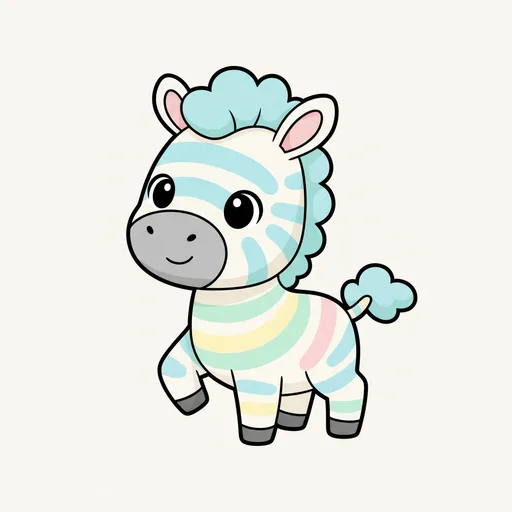
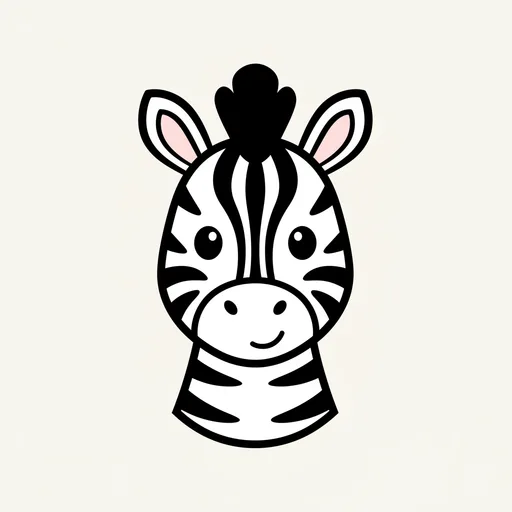
Word Board: add "Find" word-focus mode + zebra B&W image
Find mode (for Adriel): a Board↔Find toggle. In Find, one target word appears
in a random cell; tapping it speaks the word + rotating praise, then it hops to
a new cell so the child tracks & finds it. After 5 finds it advances to a new
word. Toggling back to Board is unchanged. Verified end-to-end (Playwright):
single tile, praise+word play, advances after 5, 0 console errors.

Also: regenerated zebra.webp in proper black & white (was multicolored) via
Vertex; gen-symbols.mjs gains an EXTRA_WORDS hook for non-vocab targets
(safari animals) + a B&W Zebra subject.

Changed region(s): [[0.2188, 0.125, 0.8125, 0.875]]

diff --git a/src/screens/GridScreen.jsx b/src/screens/GridScreen.jsx
@@ -1,23 +1,31 @@
-import { useMemo, useState } from 'react'
+import { useEffect, useMemo, useRef, useState } from 'react'
 import { useStore } from '../store'
-import { voice, voiceSeq, stopSpeaking } from '../lib/audio'
+import { voice, voiceSeq, playChime, stopSpeaking } from '../lib/audio'
 import { WORDS, CATEGORIES, wordsInCategory } from '../data/phraseContent'
+import { PRAISE } from '../data/content'
 import { HomeIcon } from '../components/Icons.jsx'
 import WordPic from '../components/WordPic.jsx'
 import './GridScreen.css'
 
-// Word Board — a therapist-style AAC communication board. It starts BLANK; tapping
-// an empty cell reveals a random word from the chosen category (or any, on "All"),
-// speaks it, and adds it to the message strip. Tapping a filled cell repeats it.
-// CLEAR empties the message AND blanks the whole board. Picture symbols come from our
-// real WebP art (content images, or generated symbol icons named by slug).
-const BOARD = 24 // 4 cols × 6 rows — fills the screen evenly
+// Word Board — two modes the parent toggles:
+//  • Board: a therapist-style AAC board. Starts BLANK; tapping an empty cell reveals
+//    a random word, speaks it, and adds it to the message strip. CLEAR resets both.
+//  • Find (word-focus, for Adriel): ONE target word appears in a random cell; tapping
+//    it speaks it with warm praise, then it hops to a new cell so he tracks & finds it.
+//    After 5 finds it moves on to a new word. Toggle back to Board anytime.
+const BOARD = 24 // 4 cols × 6 rows
 const MAX_MSG = 8
+const FIND_GOAL = 5
 
 const pickRandom = (pool, taken) => {
   const avail = pool.filter((w) => !taken.has(w.word))
   if (!avail.length) return null
   return avail[Math.floor(Math.random() * avail.length)]
+}
+const randCell = (avoid) => {
+  let i = Math.floor(Math.random() * BOARD)
+  while (avoid != null && i === avoid) i = Math.floor(Math.random() * BOARD)
+  return i
 }
 
 export default function GridScreen() {
@@ -26,13 +34,22 @@ export default function GridScreen() {
   const recordWord = useStore((s) => s.recordPracticeWord)
   const recordPhrase = useStore((s) => s.recordPhrase)
 
+  const [mode, setMode] = useState('board') // 'board' | 'find'
   const [cat, setCat] = useState('All')
   const pool = useMemo(() => (cat === 'All' ? WORDS : wordsInCategory(cat)), [cat])
-  const [board, setBoard] = useState(() => Array(BOARD).fill(null)) // null = blank
+
+  // Board mode
+  const [board, setBoard] = useState(() => Array(BOARD).fill(null))
   const [hi, setHi] = useState(null)
   const [message, setMessage] = useState([])
-
   const blankBoard = () => setBoard(Array(BOARD).fill(null))
+
+  // Find mode
+  const [target, setTarget] = useState(null)
+  const [targetCell, setTargetCell] = useState(0)
+  const [finds, setFinds] = useState(0)
+  const [foundFlash, setFoundFlash] = useState(false)
+  const praiseIdx = useRef(Math.floor(Math.random() * PRAISE.length))
 
   const say = (word) => {
     stopSpeaking()
@@ -56,11 +73,48 @@ export default function GridScreen() {
     say(fresh.word)
   }
 
+  // ---- Find mode: announce a new target word & drop it in a random cell ----
+  const newTarget = (avoidWord) => {
+    const next = pickRandom(pool, avoidWord ? new Set([avoidWord]) : new Set()) || pool[0]
+    setTarget(next)
+    setFinds(0)
+    setTargetCell(randCell(null))
+    stopSpeaking()
+    if (next) voice(next.word) // tell the child what to look for
+  }
+
+  // Entering Find (or changing the category while in Find) starts a fresh word.
+  useEffect(() => {
+    if (mode === 'find') newTarget()
+    // eslint-disable-next-line react-hooks/exhaustive-deps
+  }, [mode, cat])
+
+  const onFindTap = (idx) => {
+    if (!target) return
+    if (idx !== targetCell) {
+      playChime('find-miss') // tapped a blank cell — gentle, never a penalty
+      return
+    }
+    const praise = PRAISE[praiseIdx.current++ % PRAISE.length]
+    stopSpeaking()
+    voiceSeq([praise, target.word])
+    recordWord(target.word)
+    setFoundFlash(true)
+    setTimeout(() => setFoundFlash(false), 350)
+    const n = finds + 1
+    if (n >= FIND_GOAL) {
+      setTimeout(() => newTarget(target.word), 950) // mastered → next word
+    } else {
+      setFinds(n)
+      setTargetCell((c) => randCell(c)) // hop to a new spot to track & find
+    }
+  }
+
   const pickCat = (c) => {
     stopSpeaking()
     setCat(c)
-    blankBoard() // new set → fresh blank board to reveal from
     setHi(null)
+    if (mode === 'board') blankBoard() // new set → fresh blank board (Find resets via effect)
   }
 
   const sayMessage = () => {
@@ -73,7 +127,7 @@ export default function GridScreen() {
   const clear = () => {
     stopSpeaking()
     setMessage([])
-    blankBoard() // CLEAR resets the message AND the board
+    blankBoard()
     setHi(null)
   }
 
@@ -84,29 +138,60 @@ export default function GridScreen() {
           <HomeIcon size={22} />
         </button>
         <span className="wb-bar-title">Vocab{child ? ` · ${child.name}` : ''}</span>
-        <span className="wb-bar-btn wb-bar-spacer" aria-hidden="true" />
+        <div className="wb-modes" role="tablist" aria-label="Board mode">
+          <button
+            className={`wb-mode ${mode === 'board' ? 'is-active' : ''}`}
+            onClick={() => setMode('board')}
+          >
+            Board
+          </button>
+          <button
+            className={`wb-mode ${mode === 'find' ? 'is-active' : ''}`}
+            onClick={() => setMode('find')}
+          >
+            Find
+          </button>
+        </div>
       </header>
 
-      <div className="wb-strip">
-        <button
-          className="wb-strip-msg"
-          onClick={sayMessage}
-          aria-label={message.length ? `Say ${message.join(' ')}` : 'Message bar'}
-        >
-          {message.length ? (
-            message.map((m, i) => (
-              <span key={i} className="wb-chip">
-                {m}
-              </span>
-            ))
-          ) : (
-            <span className="wb-strip-empty">Tap a box to find a word…</span>
-          )}
-        </button>
-        <button className="wb-clear" onClick={clear} disabled={!message.length && board.every((c) => !c)}>
-          CLEAR
-        </button>
-      </div>
+      {mode === 'board' ? (
+        <div className="wb-strip">
+          <button
+            className="wb-strip-msg"
+            onClick={sayMessage}
+            aria-label={message.length ? `Say ${message.join(' ')}` : 'Message bar'}
+          >
+            {message.length ? (
+              message.map((m, i) => (
+                <span key={i} className="wb-chip">
+                  {m}
+                </span>
+              ))
+            ) : (
+              <span className="wb-strip-empty">Tap a box to find a word…</span>
+            )}
+          </button>
+          <button className="wb-clear" onClick={clear} disabled={!message.length && board.every((c) => !c)}>
+            CLEAR
+          </button>
+        </div>
+      ) : (
+        <div className="wb-find">
+          <button
+            className="wb-find-word"
+            onClick={() => target && voice(target.word)}
+            aria-label={target ? `Find ${target.word}. Tap to hear it again.` : 'Find a word'}
+          >
+            <span className="wb-find-label">Find</span>
+            <span className="wb-find-target">{target ? target.word : '…'}</span>
+          </button>
+          <div className="wb-find-progress" aria-label={`${finds} of ${FIND_GOAL} found`}>
+            {Array.from({ length: FIND_GOAL }, (_, i) => (
+              <span key={i} className={`wb-dot ${i < finds ? 'is-on' : ''}`} />
+            ))}
+          </div>
+        </div>
+      )}
 
       <div className="wb-cats" role="tablist" aria-label="Word groups">
         {['All', ...CATEGORIES].map((c) => (
@@ -121,16 +206,30 @@ export default function GridScreen() {
       </div>
 
       <main className="wb-board">
-        {board.map((cell, idx) => (
-          <button
-            key={idx}
-            className={`wb-cell ${cell ? 'is-filled' : 'is-blank'} ${cell && hi === cell.word ? 'is-hi' : ''}`}
-            onClick={() => tap(idx)}
-            aria-label={cell ? `Say ${cell.word}` : 'Find a word'}
-          >
-            {cell && <WordPic key={cell.word} word={cell.word} variant="cell" />}
-          </button>
-        ))}
+        {mode === 'board'
+          ? board.map((cell, idx) => (
+              <button
+                key={idx}
+                className={`wb-cell ${cell ? 'is-filled' : 'is-blank'} ${cell && hi === cell.word ? 'is-hi' : ''}`}
+                onClick={() => tap(idx)}
+                aria-label={cell ? `Say ${cell.word}` : 'Find a word'}
+              >
+                {cell && <WordPic key={cell.word} word={cell.word} variant="cell" />}
+              </button>
+            ))
+          : Array.from({ length: BOARD }, (_, idx) => {
+              const here = target && idx === targetCell
+              return (
+                <button
+                  key={idx}
+                  className={`wb-cell ${here ? 'is-filled' : 'is-blank'} ${here && foundFlash ? 'is-hi' : ''}`}
+                  onClick={() => onFindTap(idx)}
+                  aria-label={here ? `Tap the ${target.word}` : 'Empty'}
+                >
+                  {here && <WordPic key={target.word} word={target.word} variant="cell" />}
+                </button>
+              )
+            })}
       </main>
     </div>
   )

diff --git a/src/screens/GridScreen.css b/src/screens/GridScreen.css
@@ -36,6 +36,84 @@
   transform: scale(0.94);
 }
 
+/* Board ↔ Find mode toggle (segmented control in the header) */
+.wb-modes {
+  display: inline-flex;
+  gap: 3px;
+  padding: 3px;
+  border-radius: 11px;
+  background: rgba(255, 255, 255, 0.16);
+}
+.wb-mode {
+  padding: 6px 14px;
+  border-radius: 8px;
+  font-size: 13px;
+  font-weight: 800;
+  color: rgba(255, 255, 255, 0.85);
+  background: transparent;
+}
+.wb-mode.is-active {
+  color: #245c95;
+  background: #fff;
+}
+.wb-mode:active {
+  transform: scale(0.95);
+}
+
+/* Find mode: target word banner + progress dots */
+.wb-find {
+  display: flex;
+  align-items: center;
+  gap: 10px;
+  padding: 8px 10px;
+  border-bottom: 2px solid #e3e6ea;
+  background: #f7f9fb;
+}
+.wb-find-word {
+  flex: 1;
+  display: flex;
+  align-items: baseline;
+  gap: 10px;
+  min-height: 52px;
+  padding: 6px 14px;
+  border-radius: 12px;
+  border: 2px solid #d5dae0;
+  background: #fff;
+  text-align: left;
+}
+.wb-find-word:active {
+  transform: scale(0.99);
+}
+.wb-find-label {
+  font-size: 13px;
+  font-weight: 700;
+  color: #9aa6b2;
+  text-transform: uppercase;
+  letter-spacing: 0.5px;
+}
+.wb-find-target {
+  font-size: 26px;
+  font-weight: 800;
+  color: #2f6fb0;
+  text-transform: capitalize;
+}
+.wb-find-progress {
+  display: flex;
+  gap: 6px;
+  padding-right: 4px;
+}
+.wb-dot {
+  width: 13px;
+  height: 13px;
+  border-radius: 999px;
+  background: #d5dae0;
+  transition: background var(--duration-quick) var(--easing-out), transform var(--duration-quick) var(--easing-out);
+}
+.wb-dot.is-on {
+  background: #f4b740;
+  transform: scale(1.12);
+}
+
 /* message strip (tap words → build a message → tap to speak) */
 .wb-strip {
   display: flex;

diff --git a/TINYVVOICE_PROJECT_CONTEXT.md b/TINYVVOICE_PROJECT_CONTEXT.md
@@ -5,16 +5,16 @@ A git pre-commit hook auto-refreshes the metadata block below; the human-maintai
 sections (Build Status, Next Steps) are updated by hand each push.
 
 <!-- AUTO:START -->
-> _Auto-updated on commit — last refreshed **2026-06-10 21:19 UTC** on branch `main`._
+> _Auto-updated on commit — last refreshed **2026-06-10 21:25 UTC** on branch `main`._
 
 **Recent commits:**
 
+- `c2e0547 Fix TTS style-prompt leak + rotating praise + content text fixes`
 - `f7d31a5 Add the last 12 concrete-object images (Vertex AI on the GCP credit)`
 - `9655869 Docs: mark warm-voice audio complete; note images can use the GCP credit`
 - `7525ad8 Prune 32 orphaned phrase clips (old reworded ladders/family/colour lines)`
 - `b3ad3be Add full warm-voice audio via Google Cloud TTS (Aoede/Leda/Sulafat complete)`
 - `fc7f542 Keep the screen awake while the app is open (Screen Wake Lock)`
-- `e2e8a73 Slow the device voice on counting cards (sing-song pace toddlers count along to)`
 <!-- AUTO:END -->
 
 ---
